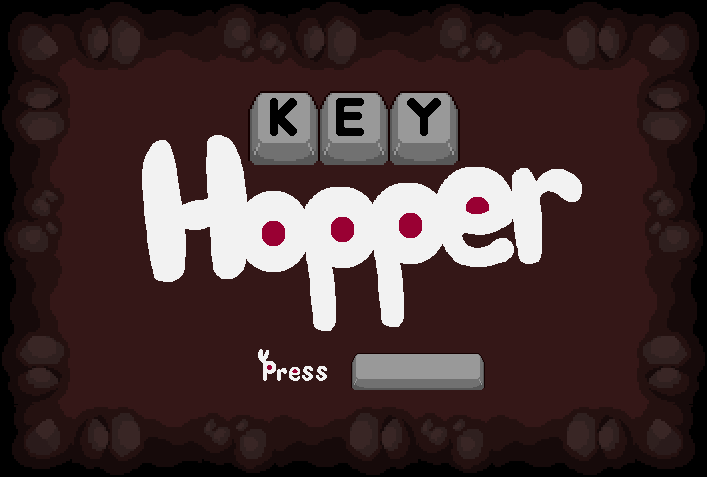
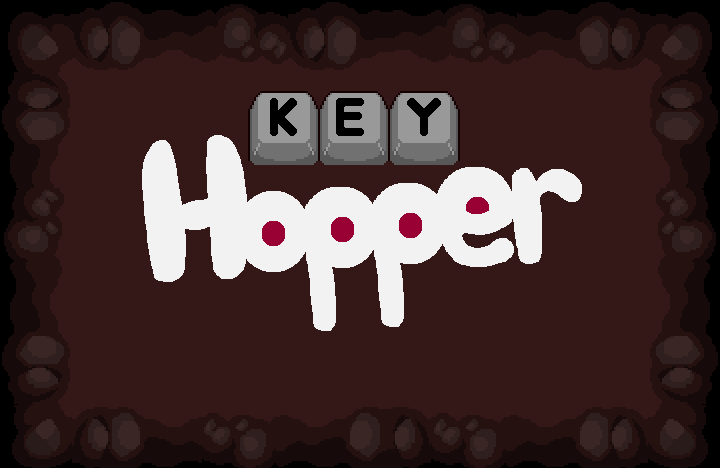
animated spacebar button on title screen

diff --git a/client/GroupManager.js b/client/GroupManager.js
@@ -2,27 +2,39 @@ function GroupManager() {
 
 	this.init = function(gameWidth, gameHeight) {
 		
-		var anim = new $.gQ.Animation({ imageURL: "images/titlescreen.png",
+		var title = new $.gQ.Animation({ imageURL: "images/titlescreen.png",
 					numberOfFrame: 1,
-					delta: 707,
+					delta: gameWidth,
 					offsetx: 0,
 					offsety: 0,
 					type: $.gQ.ANIMATION_HORIZONTAL | $.gQ.ANIMATION_ONCE});
+		var spacebar = new $.gQ.Animation({ imageURL: "images/spacebar.png",
+					numberOfFrame: 2,
+					delta: 46,
+					offsetx: 0,
+					offsety: 0,
+					rate: 600,
+					type: $.gQ.ANIMATION_VERTICAL});
 					
 		$.playground().addGroup("mapgroup", {width: gameWidth, height: gameHeight, posx: 0, posy: 0})
 			.addGroup("mapBackground", {width: gameWidth, height: gameHeight, posx: 0, posy: 0}).end()
 			.addGroup("mapObjects", {width: gameWidth, height: gameHeight, posx: 0, posy: 0}).end()
 			.addGroup("mapForeground", {width: gameWidth, height: gameHeight, posx: 0, posy: 0}).end()
-
+			.addGroup("selectionScreen", {width: gameWidth, height: gameHeight, posx: 0, posy: 0}).end()
+			.addGroup("levelSelection", {width: gameWidth, height: gameHeight, posx: 0, posy: 0}).end()
 			.addGroup("titlescreen", {width: gameWidth, height: gameHeight, posx: 0, posy: 0})
-				.addSprite( "title", {animation: anim,
+				.addSprite( "title", {animation: title,
 										width: gameWidth,
 										height: gameHeight,
 										posx: 0,
 										posy: 0 
-										});
-			.addGroup("selectionScreen", {width: gameWidth, height: gameHeight, posx: 0, posy: 0}).end()
-			.addGroup("levelSelection", {width: gameWidth, height: gameHeight, posx: 0, posy: 0}).end()
+										})
+				.addSprite( "spacebar", {animation: spacebar,
+										width: 227,
+										height: 51,
+										posx: 240,
+										posy: 350 
+										})
 			//ADD OTHER GROUPS HERE EX: HUD GROUP, OTHER SCREENS			
 
 	};

diff --git a/client/Game.html b/client/Game.html
@@ -26,7 +26,7 @@
 			<script>
 
 				var gameEngine = new GameEngine();
-				gameEngine.init(707,477);
+				gameEngine.init(720,468);
 
 				$.playground().startGame(function(){
 					gameEngine.run();
